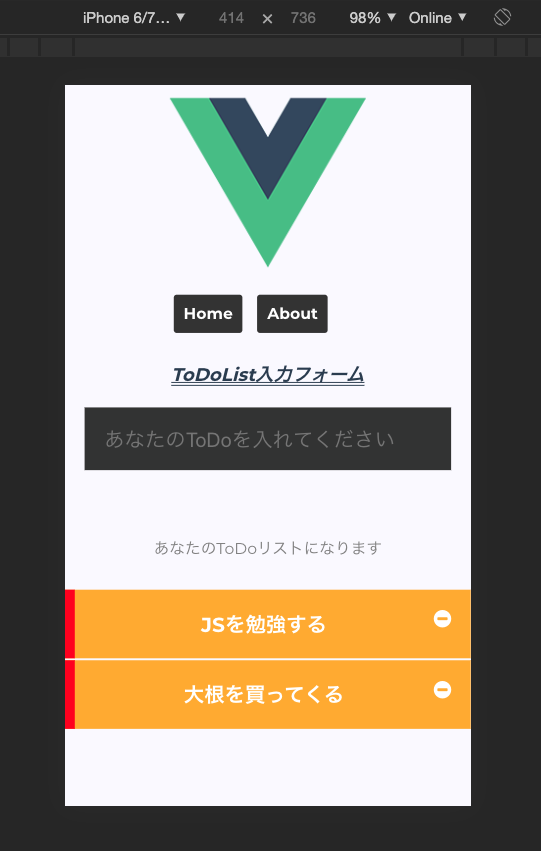
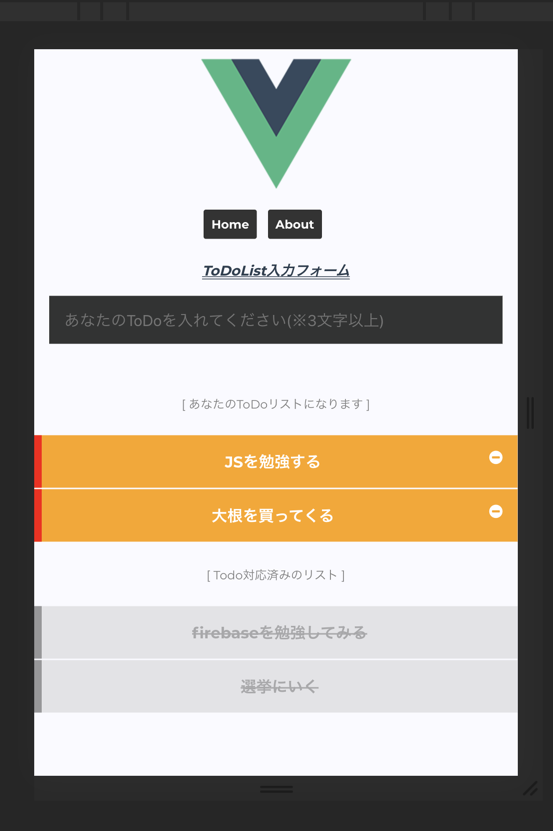
modified:adding ended todolist

diff --git a/src/components/ToDoList.vue b/src/components/ToDoList.vue
@@ -10,7 +10,7 @@
       <form @submit.prevent="addToDo">
         <input
           type="text"
-          placeholder="あなたのToDoを入れてください"
+          placeholder="あなたのToDoを入れてください(※3文字以上)"
           v-model="todolist"
           v-validate="'min:3'"
           name="todolist"
@@ -28,7 +28,7 @@
       {{todolist}}
       <br />
 
-      <p>あなたのToDoリストになります</p>
+      <p>[ あなたのToDoリストになります ]</p>
 
       <ul>
         <transition-group
@@ -40,6 +40,16 @@
             {{ data.todolist }}
             <i class="fa fa-minus-circle" v-on:click="remove(index)"></i>
           </li>
+        </transition-group>
+      </ul>
+      <p v-if="endedTodoList.length !== 0">[ Todo対応済みのリスト ]</p>
+      <ul class="endedTodoList">
+        <transition-group
+          name="list"
+          enter-active-class="animated bounceInUp"
+          leave-active-class="animated bounceOutDown"
+        >
+          <li v-for="(data, index) in endedTodoList" :key="`deleted-${index}`">{{ data.todolist }}</li>
         </transition-group>
       </ul>
     </div>
@@ -57,13 +67,14 @@ export default {
       todolists: [
         { todolist: "JSを勉強する" },
         { todolist: "大根を買ってくる" }
-      ]
+      ],
+      endedTodoList: []
     };
   },
   methods: {
     addToDo() {
       this.$validator.validateAll().then(result => {
-        console.log("result = " + result);
+        //console.log("result = " + result);
         if (result && this.todolist != "") {
           this.todolists.push({ todolist: this.todolist });
           this.todolist = "";
@@ -73,7 +84,11 @@ export default {
       });
     },
     remove(id) {
+      //adding removing todo inside ended todolist first.
+      this.endedTodoList.push(this.todolists[id]);
+
       this.todolists.splice(id, 1);
+      //console.log("this.endedTodoList = " + JSON.stringify(this.endedTodoList));
     }
   }
 };
@@ -105,6 +120,13 @@ ul li {
   border-left: 10px solid red;
   margin-bottom: 2px;
   font-weight: bold;
+}
+ul.endedTodoList li {
+  color: #555;
+  background-color: #ccc;
+  border-left: 10px solid #333;
+  text-decoration-line: line-through;
+  opacity: 0.5;
 }
 p {
   text-align: center;
